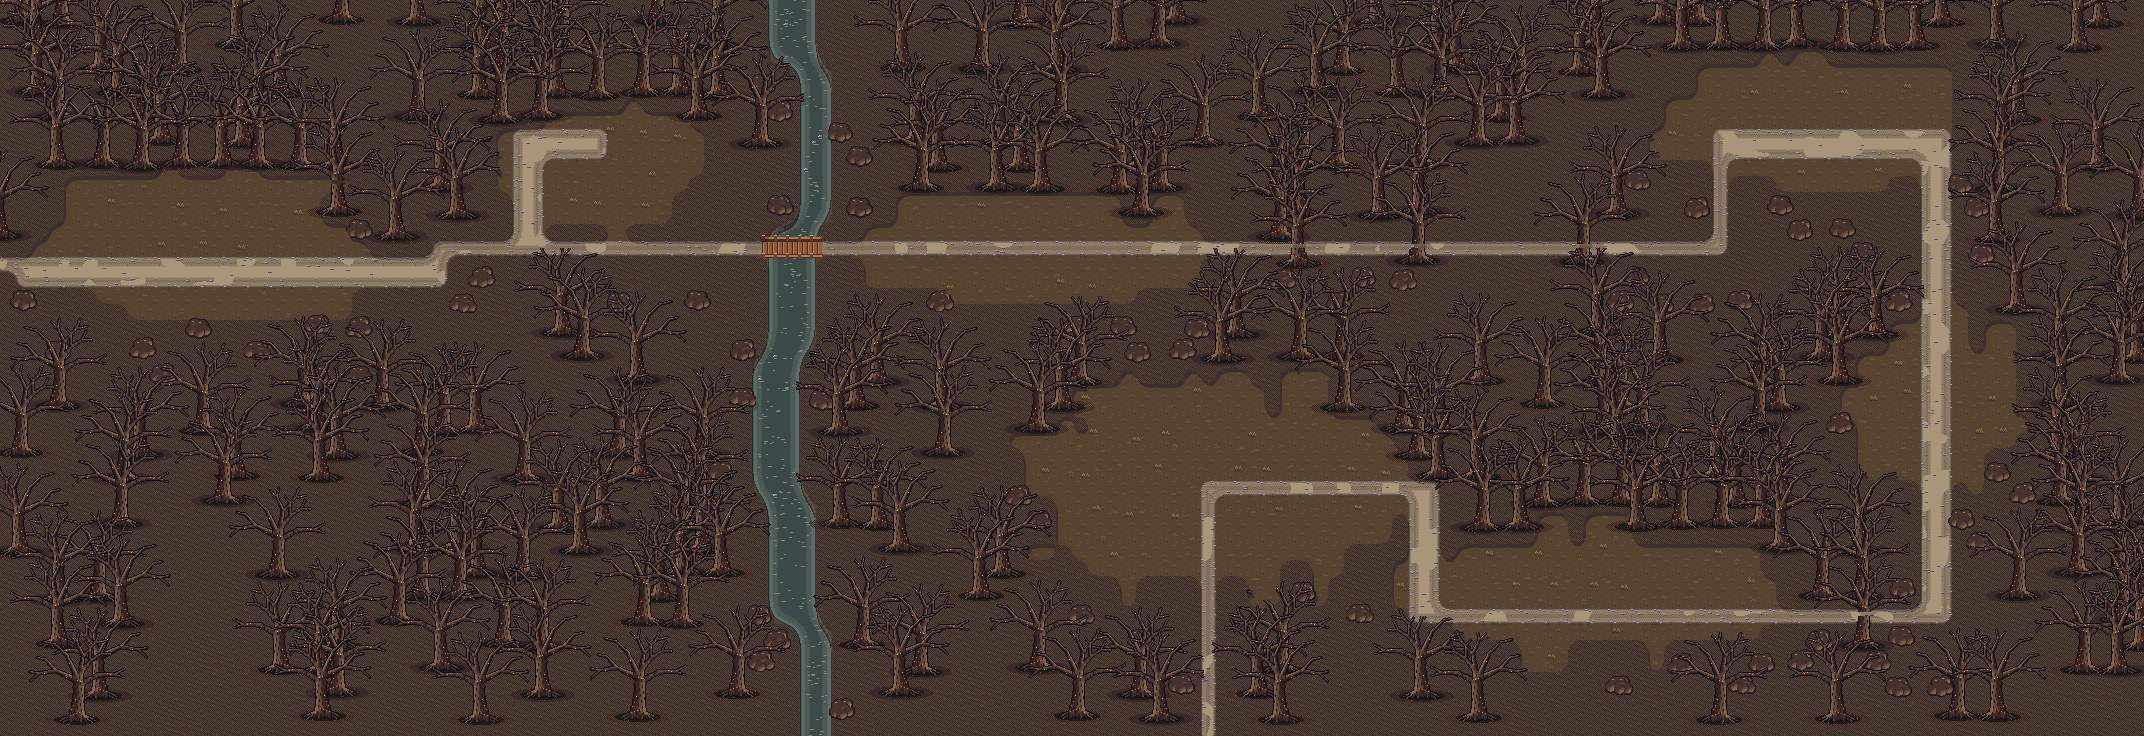
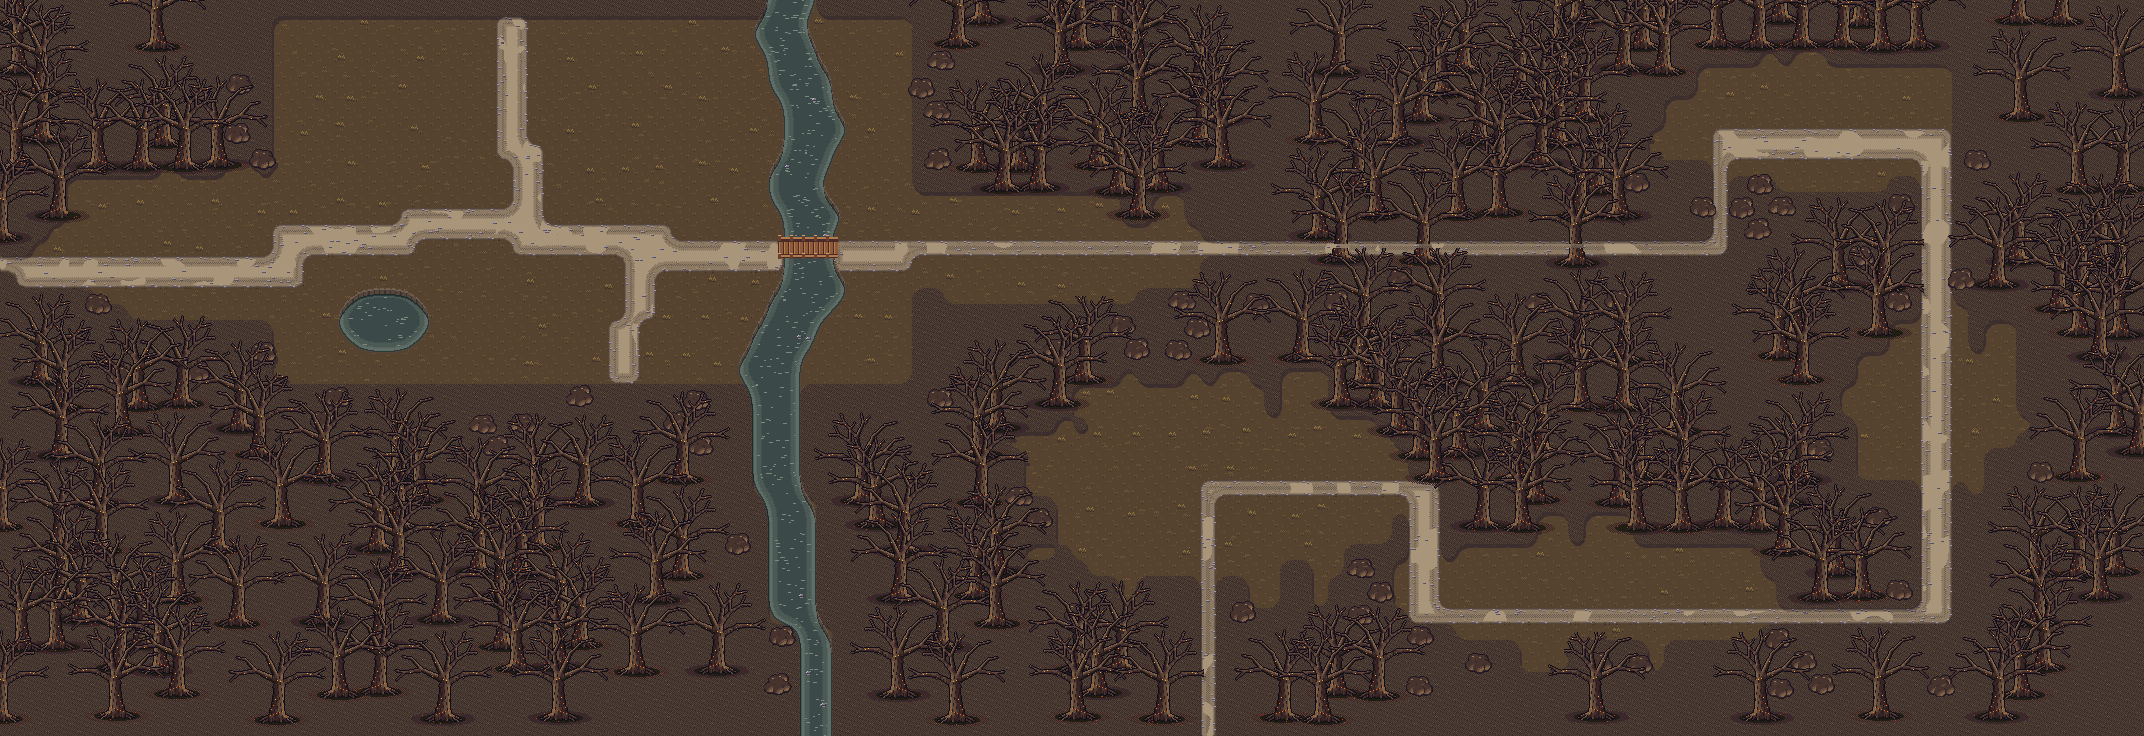
feat(bosque): el claro del Bosque como en la referencia del sistema

diff --git a/tools/stamp_forest_clearing.py b/tools/stamp_forest_clearing.py
@@ -1,0 +1,168 @@
+"""El claro del Bosque de las Cenizas, como en la referencia del sistema.
+
+    python tools/stamp_forest_clearing.py
+
+La referencia `docs/ux/sistema-de-diseno/project/assets/img/bosque_enfermo.png`
+sale del prototipo (`tools/tierra_viva/maps2.bosque()`, 40 × 23 casillas, y
+`scene2.forest_objects`). Este script pone esa escena dentro del mapa del juego,
+`data/world/zones/ashen_forest.txt` y su `.deco.txt`, desplazada para que su río
+caiga sobre el río del mapa y su camino sobre la entrada desde Valdehoja.
+
+- Se conservan las salidas, el monstruo, el hito, el paso cerrado y todas las
+  piezas que no son árboles de relleno (viñetas, semillero, rocas, hierba).
+- El mapa del repo no tiene cotas, así que la meseta y su escalera de la
+  referencia no se pintan: el camino de la escalera queda como camino.
+- Los árboles de la escena van como árbol enfermo en pie (`T`, `U`): el árbol
+  quemado (`c`) es el gradiente hacia la fuente y no se usa lejos de ella.
+
+Es idempotente: se puede volver a correr y deja el mismo resultado.
+"""
+
+from __future__ import annotations
+
+import os
+import sys
+from pathlib import Path
+
+ROOT = Path(__file__).resolve().parents[1]
+ZONE = ROOT / "data" / "world" / "zones" / "ashen_forest.txt"
+DECO = ROOT / "data" / "world" / "zones" / "ashen_forest.deco.txt"
+PROTO = ROOT / "tools" / "tierra_viva"
+
+# La referencia empieza en esta casilla del mapa: su río (columnas 29 a 35)
+# queda sobre el del mapa (47 a 50) y su camino del este sobre el puente de la fila 15.
+DX, DY = 17, 1
+T = 16
+GROUND = {".": ".", "t": ".", "f": ".", "p": "=", "S": "=", "w": "~", "B": "="}
+FILLER = set("TUc")
+# Caracteres nuevos de la leyenda del decorado.
+NEW_LEGEND = {
+    "k": "; k = decor, bush, sólido                     arbusto seco del claro",
+    "L": "; L = decor, felled_log, sólido, 2x1          tronco caído del claro",
+}
+
+
+def split(path: Path) -> tuple[list[str], list[list[str]]]:
+    """Cabecera (comentarios y, en el decorado, la línea `---`) y filas."""
+    lines = path.read_text(encoding="utf-8").splitlines()
+    if "---" in lines:
+        cut = lines.index("---") + 1
+        return lines[:cut], [list(r) for r in lines[cut:]]
+    head = [l for l in lines if l.startswith(";")]
+    return head, [list(l) for l in lines if not l.startswith(";")]
+
+
+def main() -> int:
+    sys.path.insert(0, str(PROTO))
+    cwd = os.getcwd()
+    os.chdir(PROTO)
+    import maps2
+    os.chdir(cwd)
+    ref = maps2.bosque()["ground"]
+
+    ghead, ground = split(ZONE)
+    dhead, deco = split(DECO)
+    H, W = len(ground), len(ground[0])
+    assert len(deco) <= H, (len(deco), H)
+    deco.extend([] for _ in range(H - len(deco)))
+    for r in deco:
+        r.extend(" " * (W - len(r)))
+
+    def inside(x: int, y: int) -> bool:
+        return DX <= x < DX + 40 and DY <= y < DY + 23 and 0 < y < H - 1
+
+    # 1. Suelo de la referencia.
+    for ry, row in enumerate(ref):
+        for rx, ch in enumerate(row):
+            x, y = rx + DX, ry + DY
+            if inside(x, y):
+                ground[y][x] = GROUND.get(ch, ".")
+                # El generador solo reconoce un puente de una fila, con agua
+                # arriba y abajo: de un cruce de dos filas, la de abajo es río.
+                if ch == "B" and ry > 0 and ref[ry - 1][rx] == "B":
+                    ground[y][x] = "~"
+
+    # El camino de la referencia entra dos filas más arriba que la llegada
+    # desde Valdehoja (filas 16 y 17): se unen por un tramo vertical.
+    for y in range(DY + 13, 18):
+        for x in (DX, DX + 1):
+            ground[y][x] = "="
+
+    # Fuera el relleno de árboles del claro, cada árbol entero: un 2 × 2 que el
+    # borde del claro cortara quedaría a medias. Los árboles se leen en orden,
+    # fila a fila, como en `WorldDecor`.
+    claimed = set()
+    for y in range(H):
+        for x in range(W):
+            c = deco[y][x]
+            if (x, y) in claimed or not (c in FILLER or c in NEW_LEGEND):
+                continue
+            w, h = (2, 1) if c == "L" else ((1, 1) if c == "k" else (2, 2))
+            cells = [(x + i, y + j) for i in range(w) for j in range(h)
+                     if x + i < W and y + j < H and deco[y + j][x + i] == c]
+            claimed.update(cells)
+            if any(inside(cx, cy) for cx, cy in cells):
+                for cx, cy in cells:
+                    deco[cy][cx] = " "
+
+    problems = []
+    for y in range(H):
+        for x in range(W):
+            c = deco[y][x]
+            # Lo que se pisa (ceniza, hierba) puede quedar sobre el camino.
+            if inside(x, y) and c not in " eg" and ground[y][x] in "~=":
+                problems.append(f"pieza «{c}» en ({x}, {y}) sobre «{ground[y][x]}»")
+
+    def free(x: int, y: int, w: int, h: int) -> bool:
+        return all(inside(x + i, y + j) and ground[y + j][x + i] == "." and deco[y + j][x + i] == " "
+                   for i in range(w) for j in range(h))
+
+    def put(ch: str, x: int, y: int, w: int = 1, h: int = 1) -> bool:
+        if not free(x, y, w, h):
+            return False
+        for i in range(w):
+            for j in range(h):
+                deco[y + j][x + i] = ch
+        return True
+
+    # 2. Las piezas de la escena, de píxeles a casillas (y es la base del sprite).
+    def cell(px: int, py: int) -> tuple[int, int]:
+        return px // T + DX, py // T - 1 + DY
+
+    spots = [(40, 30), (150, 40), (250, 30), (300, 66), (380, 40), (150, 420), (230, 432),
+             (560, 64), (590, 10), (604, 128), (590, 220), (604, 320), (560, 430)]
+    for i, (px_, py_) in enumerate(spots):
+        x, y = cell(px_, py_)
+        put("T" if i % 2 else "U", x, y - 1, 2, 2)
+    for px_, py_ in [(118, 190), (300, 182), (420, 238), (196, 256), (420, 120), (30, 250), (560, 340)]:
+        put("k", *cell(px_, py_))
+    for px_, py_ in [(170, 100), (380, 196), (470, 262), (276, 310), (110, 352)]:
+        put("R", *cell(px_, py_))
+    for px_, py_ in [(196, 124), (470, 304)]:
+        put("t", *cell(px_, py_))
+    x, y = cell(76, 100)
+    put("L", x, y, 2, 1)
+    # Matas de hierba seca donde la referencia tiene hierba alta.
+    for ry, row in enumerate(ref):
+        for rx, ch in enumerate(row):
+            if ch == "t":
+                put("g", rx + DX, ry + DY)
+
+    # 3. Leyenda: añade lo nuevo antes de la línea de la aparición.
+    legend = [l for l in dhead]
+    for ch, line in NEW_LEGEND.items():
+        if not any(l.startswith(f"; {ch} = ") for l in legend):
+            at = next(i for i, l in enumerate(legend) if l.startswith("; @ = "))
+            legend.insert(at, line)
+    assert legend[-1] == "---" or "---" not in legend
+
+    ZONE.write_text("\n".join(ghead + ["".join(r) for r in ground]) + "\n", encoding="utf-8")
+    DECO.write_text("\n".join(legend + ["".join(r).rstrip() for r in deco]) + "\n", encoding="utf-8")
+    for p in problems:
+        print("  AVISO", p)
+    print(f"  claro de 40 × 23 en ({DX}, {DY}); {len(problems)} avisos")
+    return 1 if problems else 0
+
+
+if __name__ == "__main__":
+    sys.exit(main())

diff --git a/tools/gen_tierra_viva_decor.py b/tools/gen_tierra_viva_decor.py
@@ -1827,6 +1827,7 @@ def forest() -> dict[str, np.ndarray]:
         out[f"ash_{state}"] = ash_patch(P, sick)
         out[f"grass_{state}"] = sys_tuft(P, sick, 0)
         out[f"blocker_{state}"] = blocker(P, sick)
+        out[f"bush_{state}"] = sys_bush(P, sick)
         if not sick:
             out["grass_pure_1"] = sys_tuft(P, False, 1)
     P = tv.palette("enfermo", "bosque")

diff --git a/CONTINUAR.md b/CONTINUAR.md
@@ -127,6 +127,7 @@ Solo lo que ayude al recorrido:
 
 - **Esquiva de 48 px y no de 32.** Con 32 no se salía de la zona de aviso de 40 px de radio. Se cambió midiendo.
 - **El ataque de la Llama hace daño sin quemadura ni humo.** Los estados del combate por turnos cuentan por turnos y aquí no hay turnos. ¿Se agregan con duración en segundos?
+- **El claro del Bosque sin muro ni cartel.** La referencia tiene una meseta con muro de piedra y escalera, pero el mapa del juego no tiene alturas. Tampoco hay cartel en el catálogo del Bosque. ¿Se agregan después?
 - **Textos nuevos para revisar:** `data/dialogue/bosque_purificado.json` y los cinco `vecino_*.json`. La pescadora no tiene nombre en el sistema y sale como «Pescadora».
 - **La segunda contramedida no hace daño, purifica directamente.** Así no se rehace en el mismo golpe que la purifica.
 
@@ -142,3 +143,4 @@ Una línea por paso: fecha y hora, qué se hizo, qué se midió, commit y qué s
 - 2026-11-04 07:30. Fases 3 y 5 hechas: Bruma sigue a Ilan en el mapa y cambian de sitio con Q/E; avisos largos partidos dentro del papel; sin energía y bolsa vacía con su aviso. `verify_action_combat` 29/29. **El combate de acción queda encendido en `game.tscn`.** Comprobación general sin fallos. Sigue el bloque D, música y sonido.
 - 2026-11-04 07:50. Bloque D, primera parte: cuatro sonidos del combate de acción (`slash`, `dodge`, `swap`, `stun`) generados por código con semilla aparte, así que los 17 audios de antes salen con los mismos bytes. `verify_audio` 35/35 y `verify_action_combat` 29/29. **No se tocó la música:** Claude no puede oír y cambiarla a ciegas puede empeorarla. Diego tiene que escuchar los cuatro sonidos nuevos. Sigue el bloque E.
 - 2026-11-04 08:20. Bloque E.3 hecho: tras la ola hablan Bruma, Ilan y Yara por el ave (`bosque_purificado.json`) y Yara manda hacia la Cuenca, donde termina la demo. Al acabar la pelea se vuelve a andar con Ilan. Bloque E.2 hecho: Doña Rosa, Don Aurelio, Tito, el padre Julián y la pescadora dicen una línea, sin retrato viejo. `verify_demo` 21/21, `verify_action_combat` 32/32 y `verify_opening` 11/11. Los textos son nuevos y Diego tiene que revisarlos. Sigue E.1, el Bosque contra su referencia.
+- 2026-11-04 09:30. Bloque E.1 hecho: `tools/stamp_forest_clearing.py` pone la escena de la referencia (`maps2.bosque()`) en el mapa del Bosque, con su río alineado al del mapa y su camino unido a la llegada. Estanque, cruce, puente, hierba seca, tocones, rocas, tronco caído, arbustos (nuevos en el catálogo del Bosque) y árboles en el borde. `verify_zone` 46/46, `verify_terrain` 8/8, valor 2,49 a 2,70 y las pruebas del juego sin cambios. Captura junto a la referencia en `docs/ux/capturas/2026-11-04-claro-junto-a-la-referencia.png`. Sigue E.4, el título.
